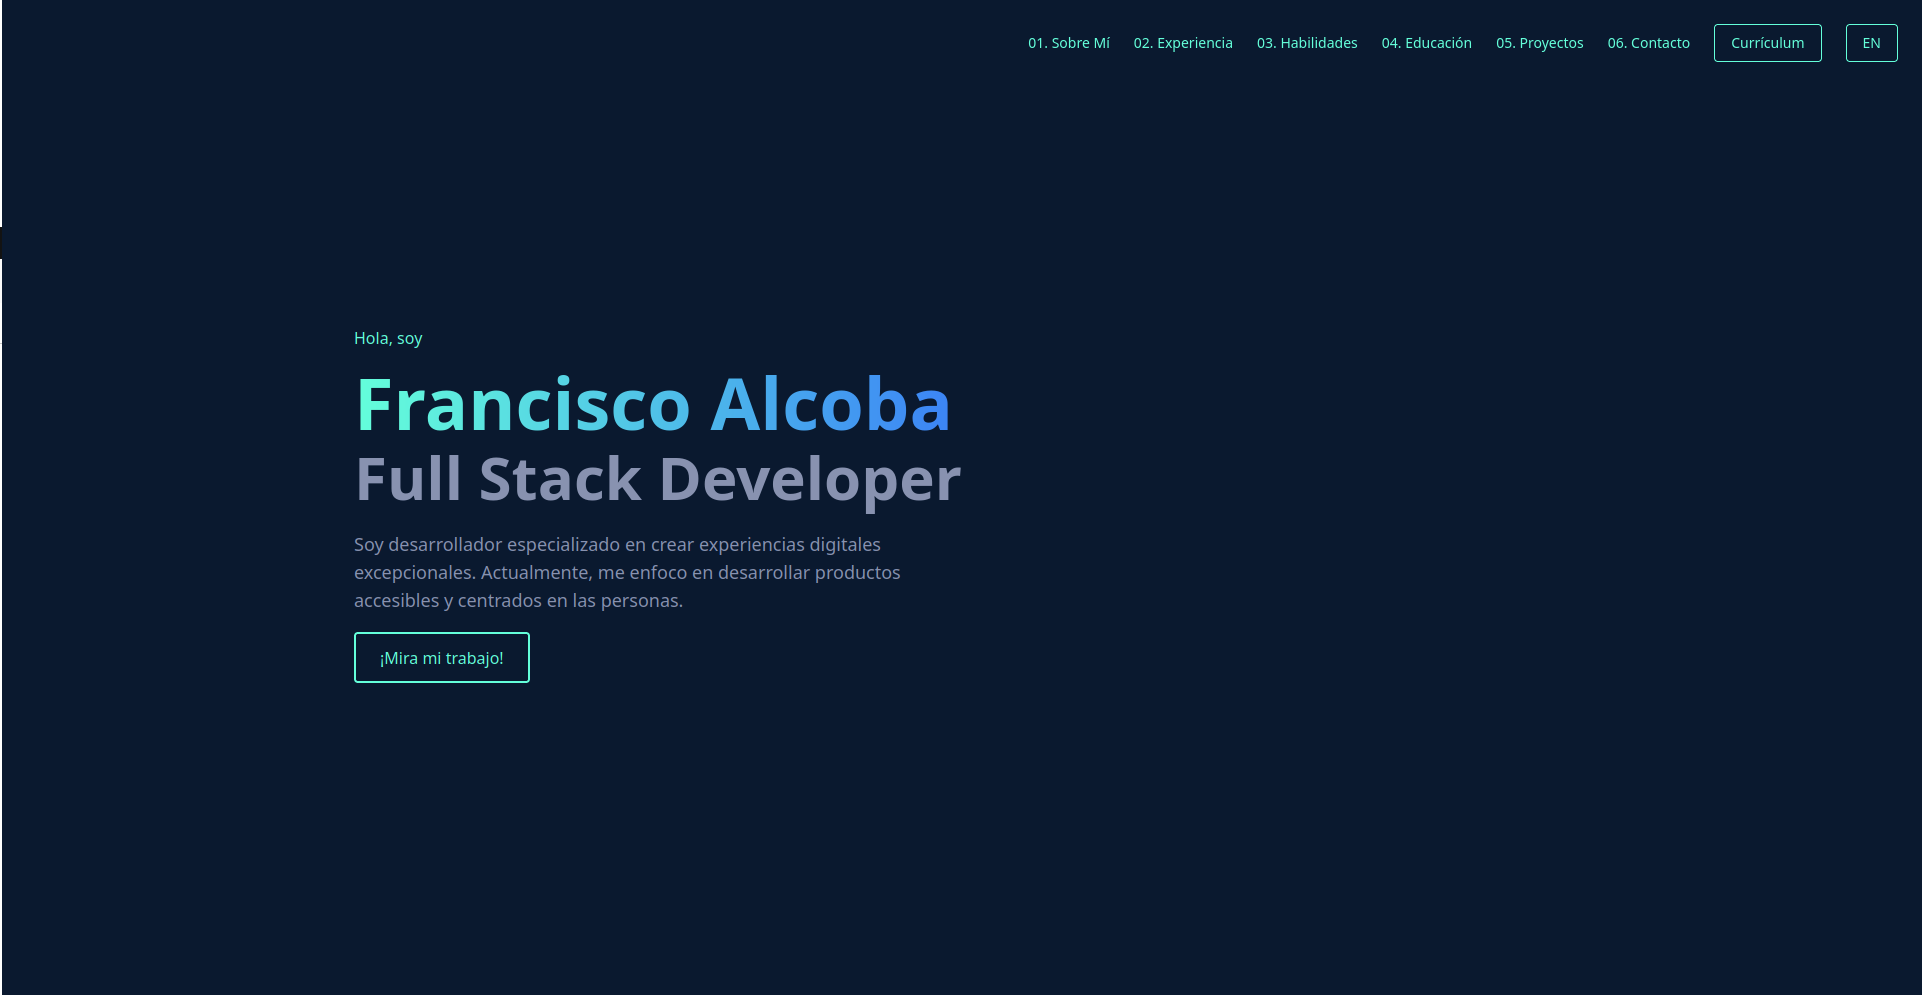
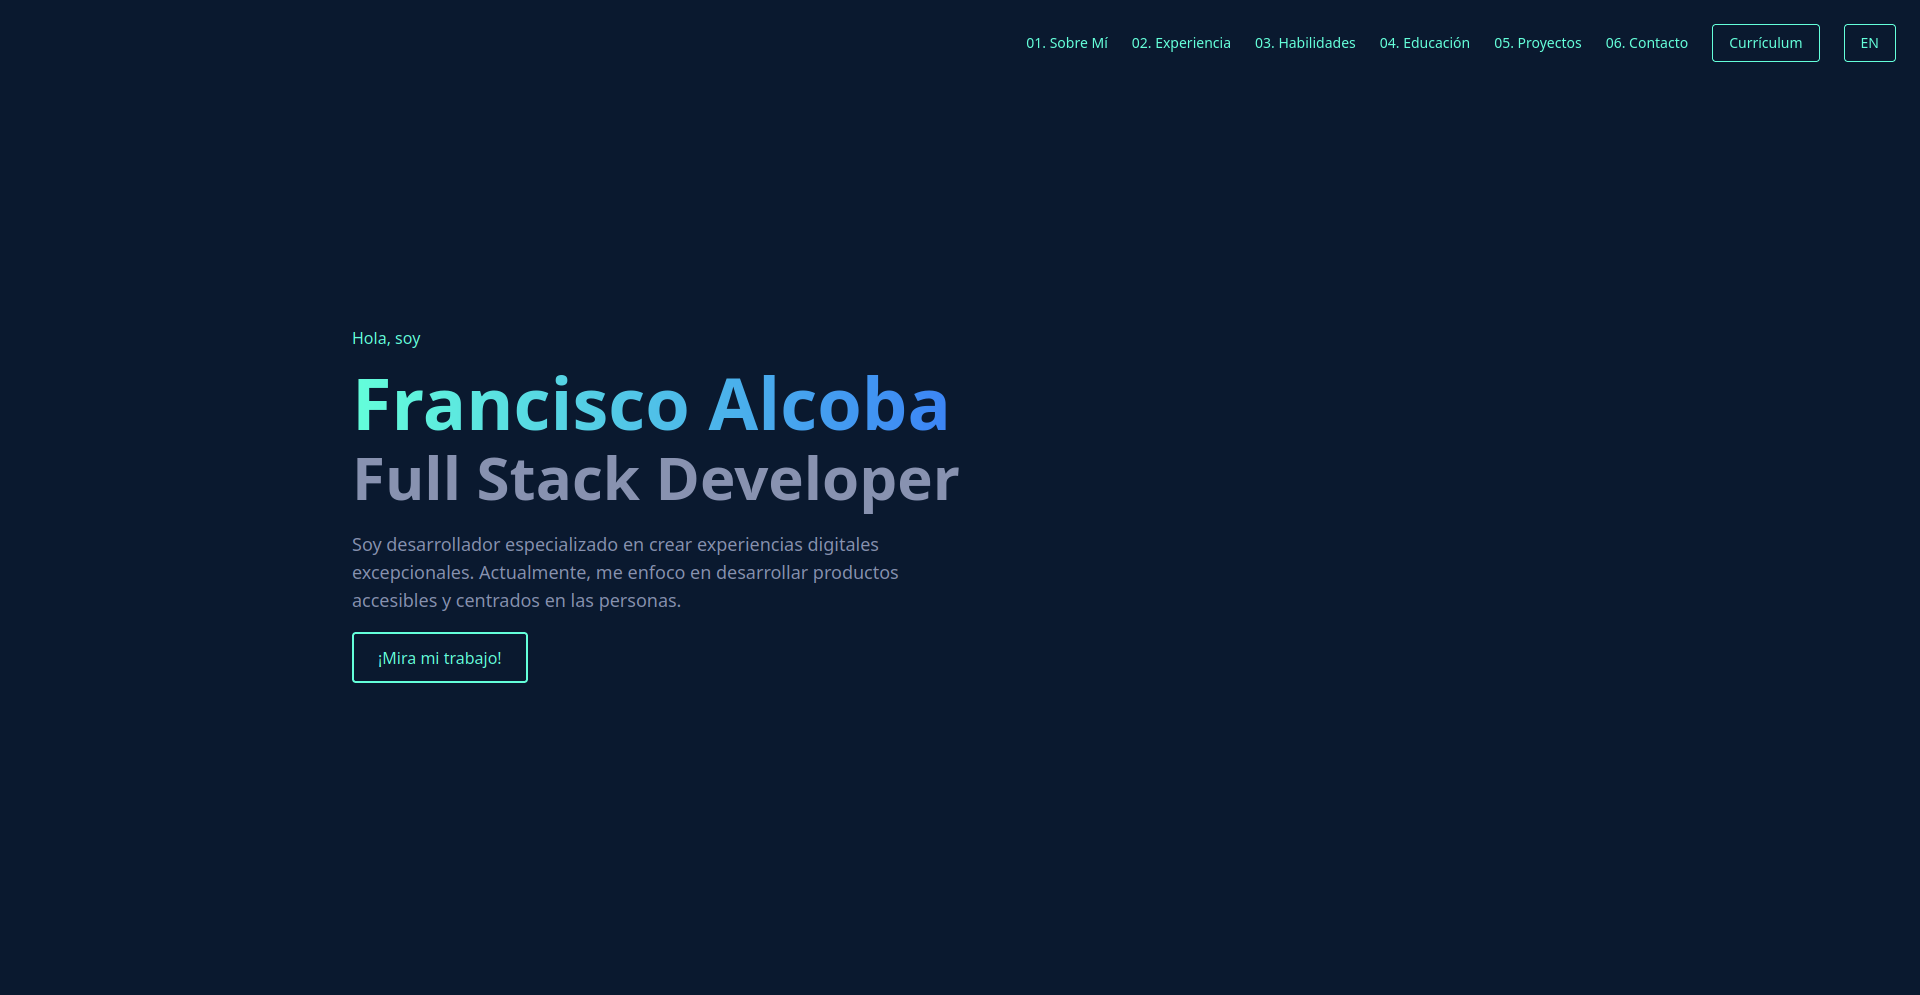
[Portfolio] - feat: preview

diff --git a/src/components/Projects.vue b/src/components/Projects.vue
@@ -56,7 +56,7 @@
 
 <script>
 import { useI18n } from 'vue-i18n'
-import portfolio from '../assets/porfolio.png'
+import portfolio from '../assets/portfolio.png'
 
 export default {
     name: 'Projects',
